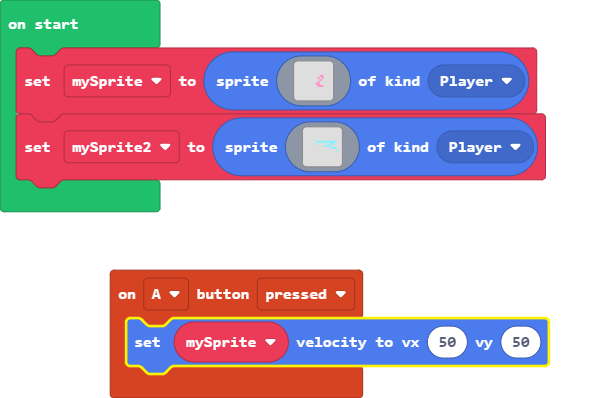
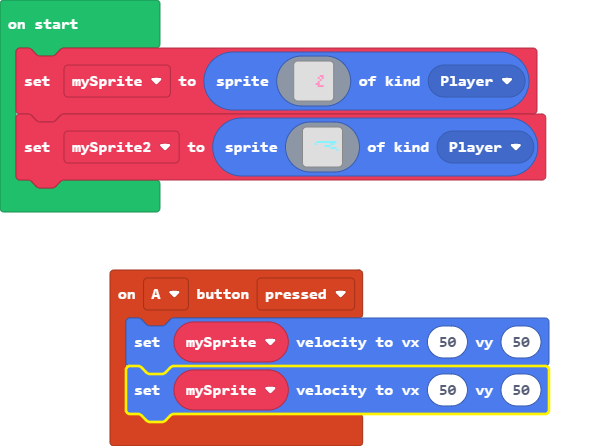
velocity change

diff --git a/main.ts b/main.ts
@@ -1,5 +1,6 @@
 controller.A.onEvent(ControllerButtonEvent.Pressed, function () {
     mySprite.setVelocity(50, 50)
+    mySprite.setVelocity(50, 50)
 })
 let mySprite: Sprite = null
 mySprite = sprites.create(img`
